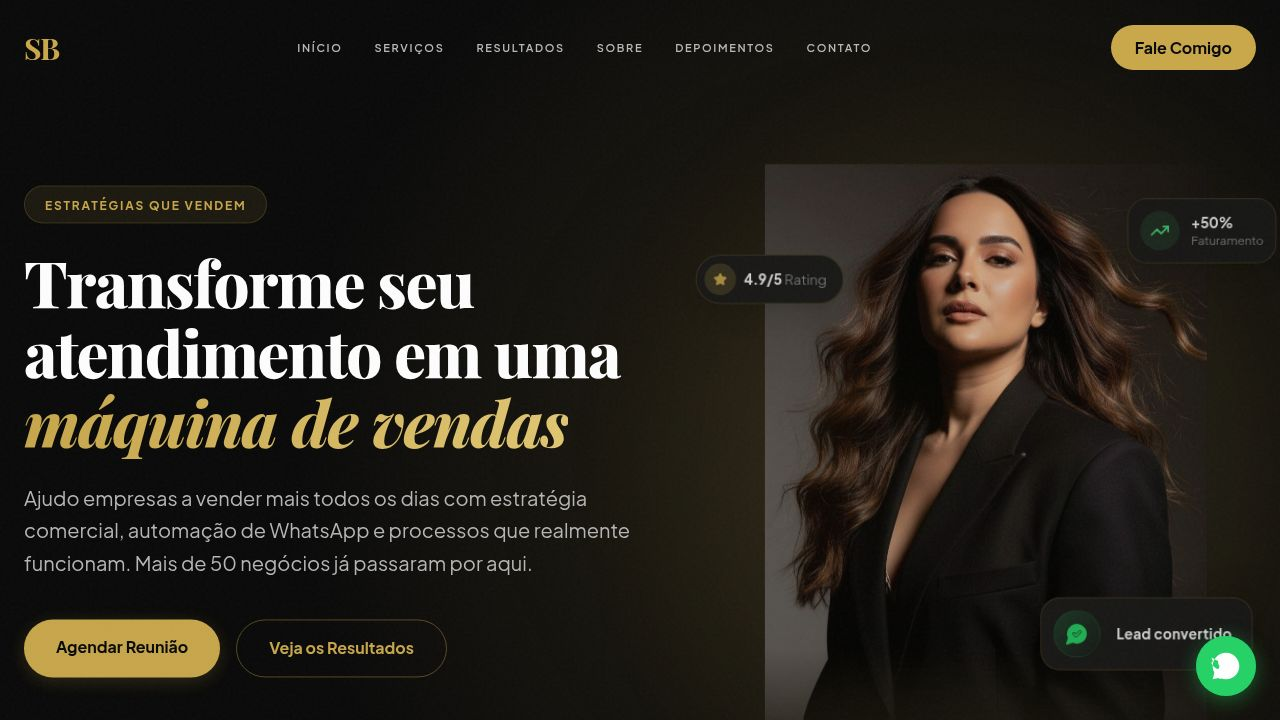
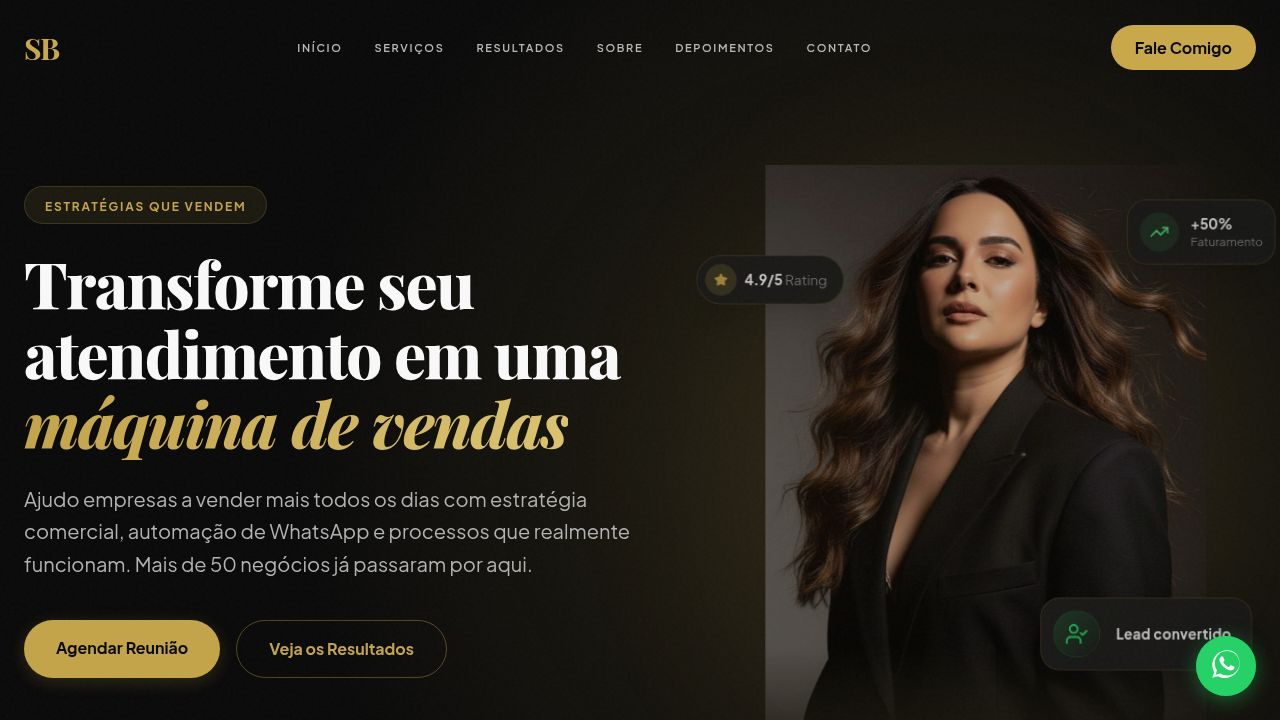
Update website to reflect current branding and service offerings
Correctly format the title of the services section to "O Método SB: da estratégia à execução real", update the hero section's background image, and adjust the hover effect for client logos in the marquee to display a gold color.

Replit-Commit-Author: Agent
Replit-Commit-Session-Id: 9c256788-e024-4dcc-a932-2a5e6094db3c
Replit-Commit-Checkpoint-Type: full_checkpoint
Replit-Commit-Event-Id: 10bd7769-8643-4c44-89bb-9e6bd7bfb8ae
Replit-Commit-Screenshot-Url: https://storage.googleapis.com/screenshot-production-us-central1/b6f0e479-c8e2-4386-9883-291b4c389f50/9c256788-e024-4dcc-a932-2a5e6094db3c/wsizix5
Replit-Helium-Checkpoint-Created: true

diff --git a/client/src/components/sections/HeroSection.tsx b/client/src/components/sections/HeroSection.tsx
@@ -1,7 +1,7 @@
 import { useState, useEffect } from "react";
 import { motion } from "framer-motion";
 import { Menu, X, TrendingUp, Star } from "lucide-react";
-import heroImg from "@assets/WhatsApp_Image_2026-02-08_at_09.58.19_(2)_1772248771761.jpeg";
+import heroImg from "@assets/Samara_1772314502388.jpeg";
 
 export default function HeroSection() {
   const [scrolled, setScrolled] = useState(false);
@@ -182,7 +182,7 @@ export default function HeroSection() {
         <div className="w-full inline-flex flex-nowrap overflow-hidden [mask-image:_linear-gradient(to_right,transparent_0,_black_128px,_black_calc(100%-128px),transparent_100%)] mb-6">
           <div className="flex items-center justify-center md:justify-start [&_div]:mx-10 marquee-scroll">
             {logosRow1.concat(logosRow1).concat(logosRow1).map((logo, idx) => (
-              <div key={`r1-${idx}`} className="text-xl md:text-2xl font-sans font-bold tracking-widest text-white/30 whitespace-nowrap hover:text-white/80 transition-colors duration-300 cursor-default">
+              <div key={`r1-${idx}`} className="text-xl md:text-2xl font-sans font-bold tracking-widest text-white/30 whitespace-nowrap hover:text-[#C9A84C] transition-colors duration-300 cursor-default">
                 {logo}
               </div>
             ))}
@@ -193,7 +193,7 @@ export default function HeroSection() {
         <div className="w-full inline-flex flex-nowrap overflow-hidden [mask-image:_linear-gradient(to_right,transparent_0,_black_128px,_black_calc(100%-128px),transparent_100%)]">
           <div className="flex items-center justify-center md:justify-start [&_div]:mx-10 marquee-scroll-reverse">
             {logosRow2.concat(logosRow2).concat(logosRow2).map((logo, idx) => (
-              <div key={`r2-${idx}`} className="text-xl md:text-2xl font-sans font-bold tracking-widest text-white/30 whitespace-nowrap hover:text-white/80 transition-colors duration-300 cursor-default">
+              <div key={`r2-${idx}`} className="text-xl md:text-2xl font-sans font-bold tracking-widest text-white/30 whitespace-nowrap hover:text-[#C9A84C] transition-colors duration-300 cursor-default">
                 {logo}
               </div>
             ))}

diff --git a/client/src/components/sections/AboutSection.tsx b/client/src/components/sections/AboutSection.tsx
@@ -58,7 +58,7 @@ export default function AboutSection() {
                 Especialista que transforma <span className="text-gradient-gold italic">atendimento em resultado</span>
               </h2>
               <div className="space-y-6 text-[#B8B8B8] text-lg text-left">
-                <p>Samara Benevides fundou a SB Estratégia & Vendas com um objetivo claro mudar a forma como empresas vendem no digital. Com mais de 10 anos de experiência em vendas, CRM e atendimento comercial, já são mais de 50 empresas nos setores de saúde, estética, varejo, educação e tecnologia que passaram pelo seu método.</p>
+                <p>Samara Benevides fundou a SB Estratégia & Vendas com um objetivo claro: mudar a forma como empresas vendem no digital. Com mais de 10 anos de experiência em vendas, CRM e atendimento comercial, já são mais de 50 empresas nos setores de saúde, estética, varejo, educação e tecnologia que passaram pelo seu método.</p>
                 <p>Lado a lado com cada cliente, ela combina estratégia, humanização e tecnologia para criar processos que realmente funcionam. Do primeiro contato no WhatsApp até o fechamento, cada etapa é desenhada para converter mais e fidelizar melhor.</p>
               </div>
               <blockquote className="mt-8 border-l-4 border-[#C9A84C] pl-6 py-2 text-left">

diff --git a/client/src/components/sections/ServicesSection.tsx b/client/src/components/sections/ServicesSection.tsx
@@ -110,7 +110,7 @@ export default function ServicesSection() {
               <span className="text-[#C9A84C] uppercase text-[0.75rem] font-bold tracking-[0.15em]">Nossos Serviços</span>
             </div>
             <h2 className="text-3xl md:text-4xl lg:text-[3rem] font-bold leading-tight mb-6 font-serif">
-              O Método SB da estratégia à <span className="text-gradient-gold italic">execução real</span>
+              O Método SB: da estratégia à <span className="text-gradient-gold italic">execução real</span>
             </h2>
             <p className="text-[#B8B8B8] text-lg">
               Diagnóstico, processos, ferramentas, treinamento e acompanhamento. Tudo que seu comercial precisa pra vender mais, melhor e com previsibilidade.
